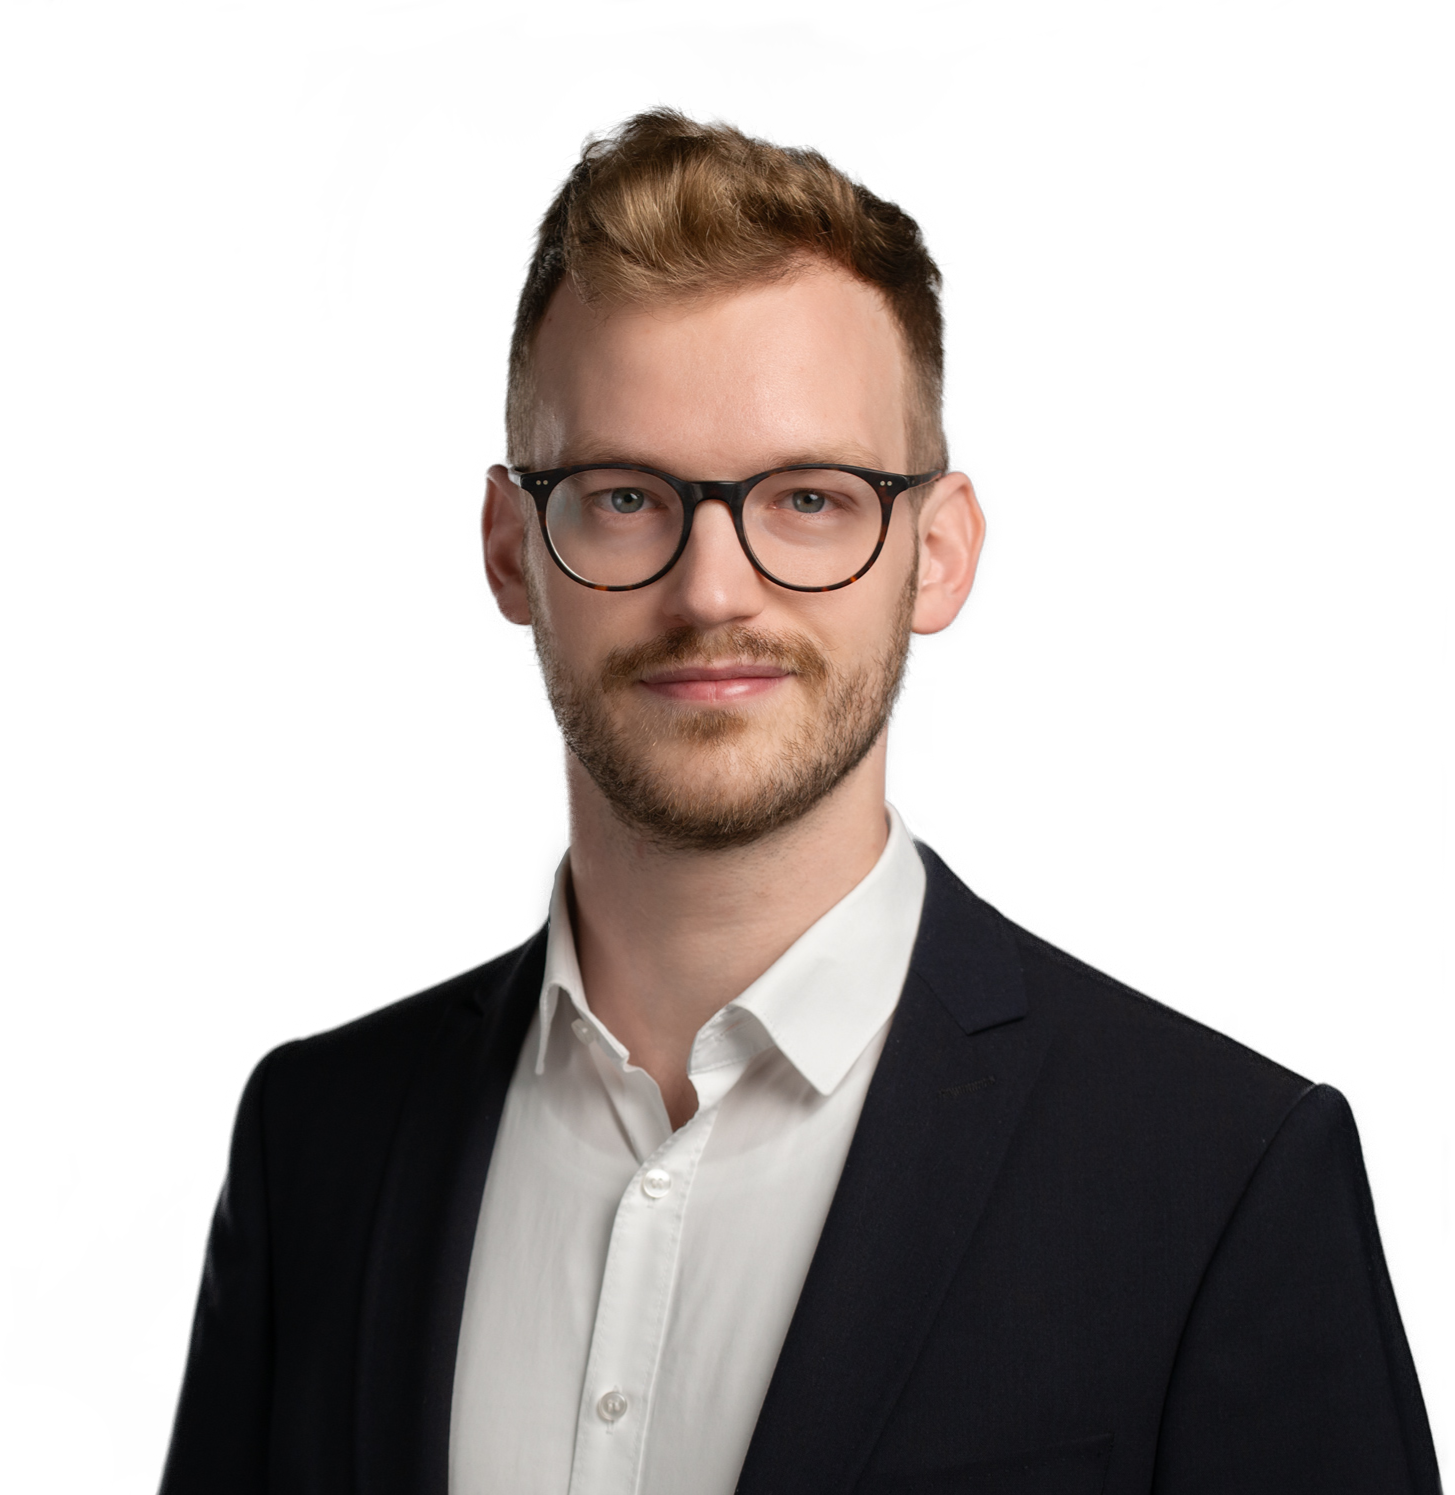
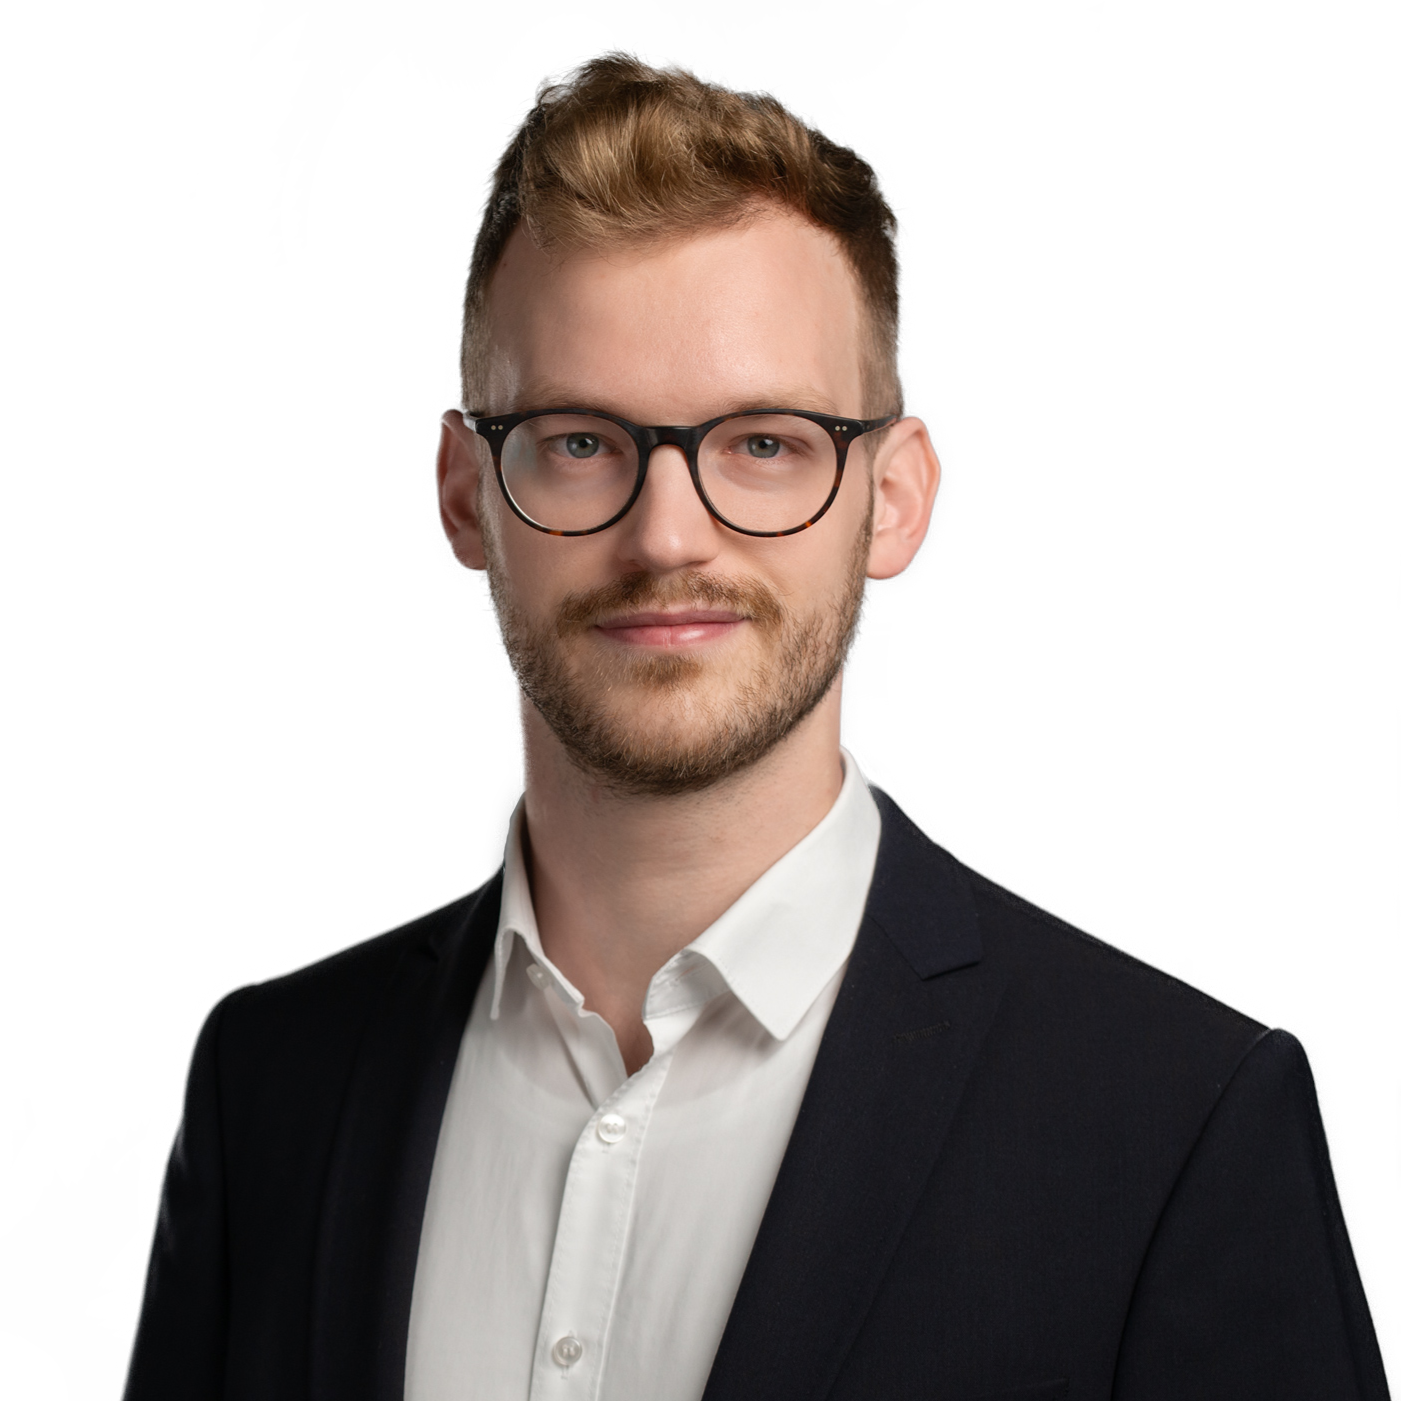
Updated LP draft

diff --git a/ML/new/Landingpage/styles.css b/ML/new/Landingpage/styles.css
@@ -15,8 +15,6 @@ body {
     text-align: center;
     margin : 0;
     padding: 0;
-    min-width: 1300px;
-    max-width: 1700px
 
 }
 
@@ -32,18 +30,46 @@ header {
   height: auto;
 }
 
-
 .container {
   display: flex;
-  width: 100%;
-  margin: auto;
-  display: grid;
-  grid-template-columns: 1fr 1fr 1fr; /* Three columns of equal width */
-  position: relative;
-  padding: 0;
-  height: 60vh;
-  overflow: hidden;
+  width: 80%;
+  height: 40vh; /* Adjust height as needed */
+  background-color: #F7F7F5; /* Background color of the rectangle */
+  border-radius: 1rem; /* Radius of corners */
+  box-shadow: rgba(0, 0, 0, 0.07) 0px 1px 2px, rgba(0, 0, 0, 0.07) 0px 2px 4px, rgba(0, 0, 0, 0.07) 0px 4px 8px, rgba(0, 0, 0, 0.07) 0px 8px 16px, rgba(0, 0, 0, 0.07) 0px 16px 32px, rgba(0, 0, 0, 0.07) 0px 32px 64px;
+  overflow: hidden; /* Ensures content stays within rounded corners */
+  margin: 0 auto; /* Center the rectangle horizontally */
+}
 
+.left-section,
+.right-section {
+  flex: 1;
+  display: flex;
+  justify-content: center;
+  align-items: center;
+  padding: 20px; /* Add padding as needed */
+  color: #fff;
+}
+
+.left-section {
+  background-color: #F7F7F5; /* Background color of the left section */
+}
+
+.right-section {
+  background-color: #F7F7F5; /* Background color of the right section */
+}
+
+.circle {
+  position: relative;
+  width: 30vh;
+  height: 30vh;
+  border-radius: 50%;
+  background: linear-gradient(to bottom,#A2A963,#F0F7EE );
+  box-shadow: 3px 3px 10px 3px #dddddd;
+  overflow: hidden; /* Ensures the image stays inside the circle */
+  display: flex;
+  justify-content: center;
+  align-items: center;
 }
 
 .container-teaching {
@@ -60,37 +86,23 @@ header {
 }
 
 .pp {
-  grid-column: 1 / 3; 
-  justify-self: center; 
-  position: absolute;
-  bottom: 0%;
-  height:50vh;
-  width: auto;
+  width: 100%;
+  height: 100%;
+  border-radius: 50%;
   z-index: 1; 
 }
 
 .intro {
-  position: absolute;
-  grid-column: 2 / 3; 
-  margin-left: 40vw;
-  margin-top: 15vh;
+  margin-left: 5%;
   font-family: "Roboto", sans-serif;
-  text-align: left;
+  text-align: center;
   justify-self: center; 
-  height:50vh;
-  width: 40vw;
+  justify-content: center;
+  overflow: hidden;
   z-index: 1; 
 
 }
 
-
-.grid-green {
-  background-color: #A2A963;
-}
-
-.grid-white {
-  background-color: #F7F7F5;
-}
 
 .centered-pp {
   position: absolute;
@@ -103,9 +115,12 @@ header {
 }
 
 .hero-h1 {
-    text-align: left;
-    font-size: 40pt;
-    margin-bottom: -1%;
+  position: relative;
+  margin-bottom: -0.25em;
+  justify-self: start;
+  text-align: left;
+  color: #0E0E0D;
+  font-size: 4vh;
 }
 
 .teaching-h1 {
@@ -115,10 +130,12 @@ header {
 }
 
 .hero-p {
+    position: center;
     text-align: left;
-    font-size: 20pt;
-    text-shadow: -1px -1px 0 #f7f7f5, 1px -1px 0 #f7f7f5, -1px 1px 0 #f7f7f5, 1px 1px 0 #f7f7f5;
+    font-size: 2vh;
+    color: #0E0E0D;
 }
+
 .teaching-p {
     text-align: left;
     font-size: 20pt;

diff --git a/ML/new/Landingpage/home.html b/ML/new/Landingpage/home.html
@@ -11,9 +11,7 @@
 </head>
 <body>
     <header>
-        <div class="grid-green"></div>
-        <div class="grid-white"></div>
-        <div class="grid-white">
+        <div>
             <a class=" button cta" href="home.html">
                 <span class="hover-underline-animation"> Home </span>
             </a>
@@ -31,19 +29,23 @@
     <main> 
         <section id="Hero">
             <div class="container">
-                <div class="grid-green"></div>
-                <div class="grid-white"></div>
-                <div class="grid-white"></div>
-                <img class="pp" src="assets/PP.png"></img>
-                <div class="intro">
-                    <h1 class="hero-h1">
-                        Hi, I'm Linus!
-                    </h1>
-                    <p class="hero-p">
-                        PhD student in statistics and data science at University of Augsburg.</br>
-                        My research focuses on the intersection between </br>
-                        functional data analysis and statistical learning.
-                    </p>
+                <div class="left-section">
+                    <div class="circle">
+                         <img class="pp" src="assets/PP.png"></img>                       
+                    </div>
+                </div>
+                
+                <div class="right-section">
+                     <div class="intro">
+                        <h1 class="hero-h1">
+                            Hi, I'm Linus!
+                        </h1>
+                        <p class="hero-p">
+                            PhD student in statistics and data science at University of Augsburg.</br>
+                            My research focuses on the intersection between </br>
+                            functional data analysis and statistical learning.
+                        </p>
+                    </div>                   
                 </div>
             </div>   
         </section>
